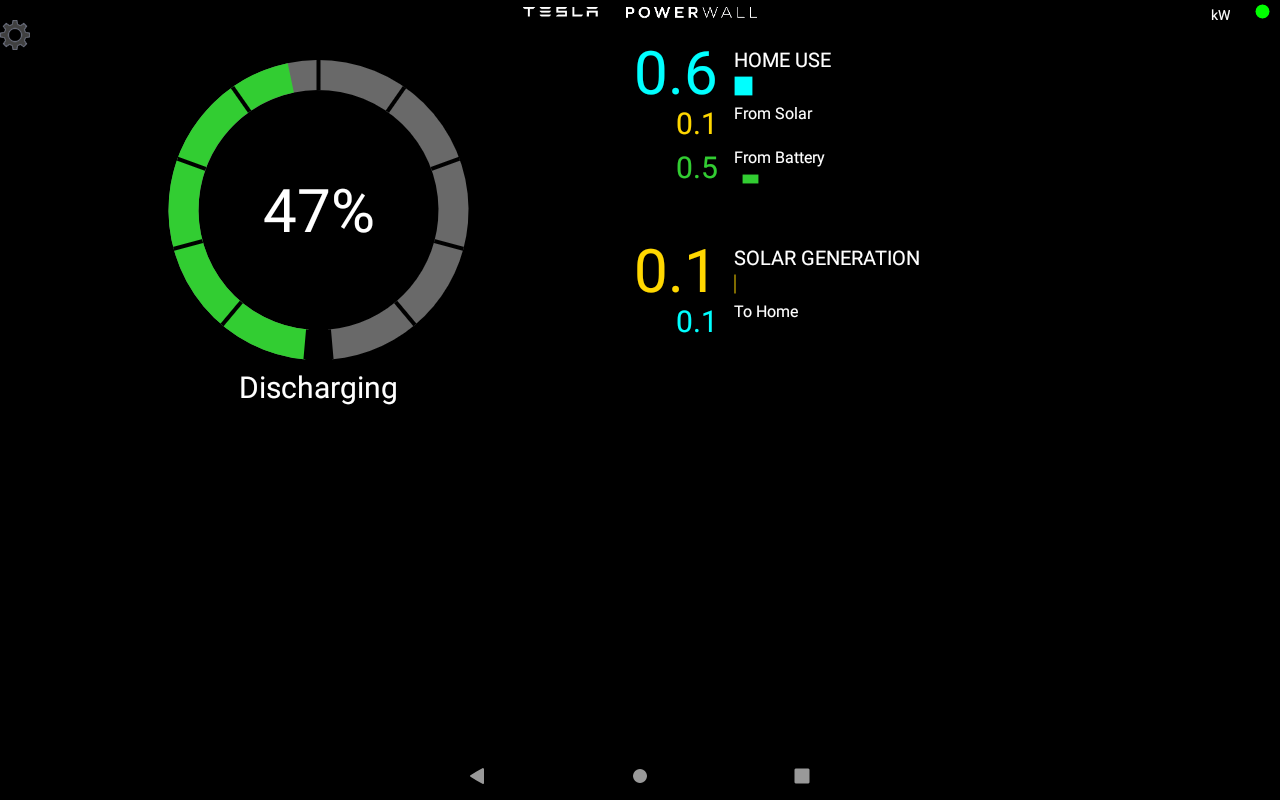
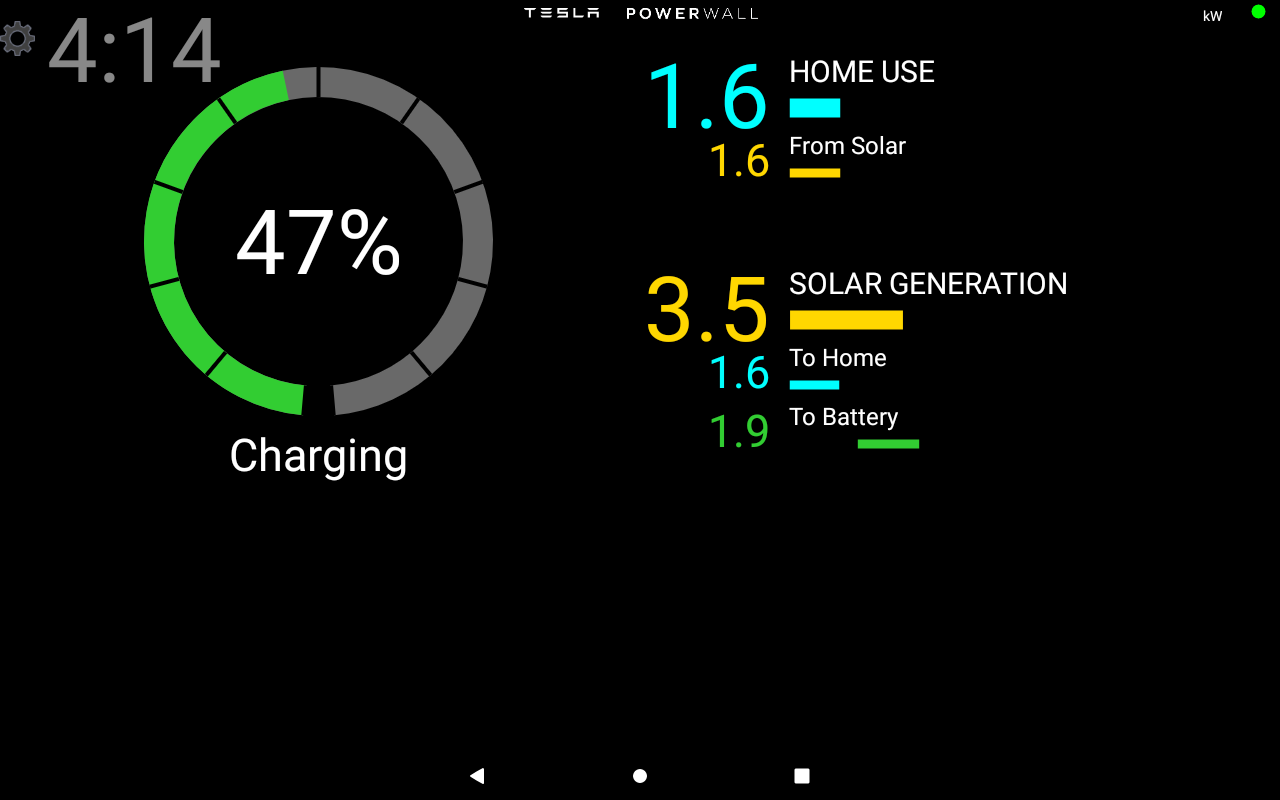
Font size control, v1.4 release

diff --git a/PowerwallCompanionX/PowerwallCompanionX/Views/MainPage.xaml b/PowerwallCompanionX/PowerwallCompanionX/Views/MainPage.xaml
@@ -41,7 +41,7 @@
                 <StackLayout Orientation="Vertical" Grid.Column="0">
                     <gauge:SfCircularGauge Margin="30,30,30,0">
                         <gauge:SfCircularGauge.Headers>
-                            <gauge:Header Text="{Binding BatteryPercent, Converter={ StaticResource BatteryPercentageConverter}}" ForegroundColor="White" TextSize="60" Position="0.5,0.5" />
+                            <gauge:Header Text="{Binding BatteryPercent, Converter={ StaticResource BatteryPercentageConverter}}" ForegroundColor="White" TextSize="{Binding LargeFontSize}" Position="0.5,0.5" />
                         </gauge:SfCircularGauge.Headers>
                         <gauge:SfCircularGauge.Scales>
                             <gauge:Scale  StartAngle="95" SweepAngle="350" ShowLabels="False" ShowRim="True" RadiusFactor="1" RimThickness="30" RimColor="{Binding GridActive, Converter={StaticResource GridActiveToBackgroundColorConverter}}">
@@ -60,7 +60,7 @@
 
                         </gauge:SfCircularGauge.Scales>
                     </gauge:SfCircularGauge>
-                    <Label Text="{Binding BatteryStatus}" TextColor="White" FontSize="30" HorizontalTextAlignment="Center" />
+                    <Label Text="{Binding BatteryStatus}" TextColor="White" FontSize="{Binding SmallFontSize}" HorizontalTextAlignment="Center" />
                 </StackLayout>
 
                 <!-- Column 1-->
@@ -100,25 +100,25 @@
                     </Grid.RowDefinitions>
 
                     <!-- Home Use -->
-                    <Label FontSize="20" Grid.Row="0" Grid.Column="1" TextColor="White" HorizontalTextAlignment="Left" Margin="0,15,0,0">HOME USE</Label>
-                    <Label Grid.Row="0" Grid.Column="0" Grid.RowSpan="2" TextColor="Cyan" VerticalTextAlignment="Center" HorizontalOptions="End" FontSize="60" Margin="0,0,10,-10" Text="{Binding HomeValue, Mode=OneWay, Converter={StaticResource KilowattConverter}}" ></Label>
+                    <Label FontSize="{Binding LargeCaptionFontSize}" Grid.Row="0" Grid.Column="1" TextColor="White" HorizontalTextAlignment="Left" Margin="0,15,0,0">HOME USE</Label>
+                    <Label Grid.Row="0" Grid.Column="0" Grid.RowSpan="2" TextColor="Cyan" VerticalTextAlignment="Center" HorizontalOptions="End" FontSize="{Binding LargeFontSize}" Margin="0,0,10,-10" Text="{Binding HomeValue, Mode=OneWay, Converter={StaticResource KilowattConverter}}" ></Label>
                     <StackLayout Margin="0" Padding="0" Grid.Row="1" Grid.Column="1" Orientation="Horizontal">
                         <Rectangle  Fill="Cyan"   WidthRequest="{Binding HomeValue, Mode=OneWay, Converter={StaticResource PositiveBarGraphConverter}}" HeightRequest="20"  />
                     </StackLayout>
-                    <Label FontSize="16"  Grid.Row="2" Grid.Column="1" TextColor="White" HorizontalTextAlignment="Left">From Solar</Label>
-                    <Label Grid.Row="2" Grid.Column="0" Grid.RowSpan="2" TextColor="Gold" HorizontalOptions="End" VerticalTextAlignment="Center" FontSize="30" Margin="0,0,10,0" Text="{Binding HomeFromSolar, Mode=OneWay, Converter={StaticResource KilowattConverter}}"></Label>
+                    <Label FontSize="{Binding SmallCaptionFontSize}"  Grid.Row="2" Grid.Column="1" TextColor="White" HorizontalTextAlignment="Left">From Solar</Label>
+                    <Label Grid.Row="2" Grid.Column="0" Grid.RowSpan="2" TextColor="Gold" HorizontalOptions="End" VerticalTextAlignment="Center" FontSize="{Binding SmallFontSize}" Margin="0,0,10,0" Text="{Binding HomeFromSolar, Mode=OneWay, Converter={StaticResource KilowattConverter}}"></Label>
                     <StackLayout Margin="0" Padding="0" Grid.Row="3" Grid.Column="1" Orientation="Horizontal" IsVisible="{Binding HomeFromSolar, Mode=OneWay, Converter={StaticResource PositiveToBooleanConverter}}">
                         <Rectangle Fill="Gold"  WidthRequest="{Binding HomeFromSolar, Mode=OneWay, Converter={StaticResource PositiveBarGraphConverter}}" HeightRequest="10" />
                     </StackLayout>
-                    <Label FontSize="16"  Grid.Row="4" Grid.Column="1" TextColor="White" HorizontalTextAlignment="Left">From Battery</Label>
-                    <Label Grid.Row="4" Grid.Column="0" Grid.RowSpan="2" TextColor="LimeGreen" HorizontalOptions="End" VerticalTextAlignment="Center" FontSize="30" Margin="0,0,10,0" Text="{Binding HomeFromBattery, Mode=OneWay, Converter={StaticResource KilowattConverter}}"></Label>
+                    <Label FontSize="{Binding SmallCaptionFontSize}"  Grid.Row="4" Grid.Column="1" TextColor="White" HorizontalTextAlignment="Left">From Battery</Label>
+                    <Label Grid.Row="4" Grid.Column="0" Grid.RowSpan="2" TextColor="LimeGreen" HorizontalOptions="End" VerticalTextAlignment="Center" FontSize="{Binding SmallFontSize}" Margin="0,0,10,0" Text="{Binding HomeFromBattery, Mode=OneWay, Converter={StaticResource KilowattConverter}}"></Label>
                     <StackLayout Margin="0" Padding="0" Orientation="Horizontal" Grid.Row="5" Grid.Column="1" IsVisible="{Binding HomeFromBattery, Mode=OneWay, Converter={StaticResource PositiveToBooleanConverter}}">
                         <Rectangle Fill="Transparent"  WidthRequest="{Binding HomeFromSolar, Mode=OneWay, Converter={StaticResource PositiveBarGraphConverter}}" HeightRequest="10" />
                         <Rectangle Fill="LimeGreen"  WidthRequest="{Binding HomeFromBattery, Mode=OneWay, Converter={StaticResource PositiveBarGraphConverter}}" HeightRequest="10" />
                     </StackLayout>
 
-                    <Label FontSize="16"  Grid.Row="6" Grid.Column="1" TextColor="White" HorizontalTextAlignment="Left">From Grid</Label>
-                    <Label Grid.Row="6" Grid.Column="0" Grid.RowSpan="2" TextColor="LightGray" HorizontalOptions="End"  VerticalTextAlignment="Center" FontSize="30" Margin="0,0,10,0" Text="{Binding HomeFromGrid, Mode=OneWay, Converter={StaticResource KilowattConverter}}"></Label>
+                    <Label FontSize="{Binding SmallCaptionFontSize}"  Grid.Row="6" Grid.Column="1" TextColor="White" HorizontalTextAlignment="Left">From Grid</Label>
+                    <Label Grid.Row="6" Grid.Column="0" Grid.RowSpan="2" TextColor="LightGray" HorizontalOptions="End"  VerticalTextAlignment="Center" FontSize="{Binding SmallFontSize}" Margin="0,0,10,0" Text="{Binding HomeFromGrid, Mode=OneWay, Converter={StaticResource KilowattConverter}}"></Label>
                     <StackLayout Margin="0" Padding="0" Orientation="Horizontal" Grid.Row="7" Grid.Column="1" IsVisible="{Binding HomeFromGrid, Mode=OneWay, Converter={StaticResource PositiveToBooleanConverter}}">
                         <Rectangle Fill="Transparent"  WidthRequest="{Binding HomeFromSolar, Mode=OneWay, Converter={StaticResource PositiveBarGraphConverter}}" HeightRequest="10" />
                         <Rectangle Fill="Transparent"  WidthRequest="{Binding HomeFromBattery, Mode=OneWay, Converter={StaticResource PositiveBarGraphConverter}}" HeightRequest="10" />
@@ -126,25 +126,25 @@
                     </StackLayout>
 
                     <!-- Solar Generation -->
-                    <Label FontSize="20"  Grid.Row="9" Grid.Column="1" HorizontalTextAlignment="Left" LineBreakMode="NoWrap"  TextColor="White"  Margin="0,15,0,0">SOLAR GENERATION</Label>
-                    <Label Grid.Row="9" Grid.Column="0" Grid.RowSpan="2" TextColor="Gold" HorizontalOptions="End" VerticalTextAlignment="Center" FontSize="60"  Margin="-0,0,10,-10" Text="{Binding SolarValue, Mode=OneWay, Converter={StaticResource KilowattConverter}}"></Label>
+                    <Label FontSize="{Binding LargeCaptionFontSize}"  Grid.Row="9" Grid.Column="1" HorizontalTextAlignment="Left" LineBreakMode="NoWrap"  TextColor="White"  Margin="0,15,0,0">SOLAR GENERATION</Label>
+                    <Label Grid.Row="9" Grid.Column="0" Grid.RowSpan="2" TextColor="Gold" HorizontalOptions="End" VerticalTextAlignment="Center" FontSize="{Binding LargeFontSize}"  Margin="-0,0,10,-10" Text="{Binding SolarValue, Mode=OneWay, Converter={StaticResource KilowattConverter}}"></Label>
                     <StackLayout Margin="0" Padding="0" Orientation="Horizontal" Grid.Row="10" Grid.Column="1">
                         <Rectangle  Fill="Gold" WidthRequest="{Binding SolarValue, Mode=OneWay, Converter={StaticResource PositiveBarGraphConverter}}" HeightRequest="20" />
                     </StackLayout>
-                    <Label FontSize="16"  Grid.Row="11" Grid.Column="1" TextColor="White" HorizontalTextAlignment="Left">To Home</Label>
-                    <Label Grid.Row="11" Grid.Column="0" Grid.RowSpan="2" TextColor="Cyan"  HorizontalOptions="End" VerticalTextAlignment="Center" FontSize="30"  Margin="0,0,10,0" Text="{Binding SolarToHome, Mode=OneWay, Converter={StaticResource KilowattConverter}}"></Label>
+                    <Label FontSize="{Binding SmallCaptionFontSize}"  Grid.Row="11" Grid.Column="1" TextColor="White" HorizontalTextAlignment="Left">To Home</Label>
+                    <Label Grid.Row="11" Grid.Column="0" Grid.RowSpan="2" TextColor="Cyan"  HorizontalOptions="End" VerticalTextAlignment="Center" FontSize="{Binding SmallFontSize}"  Margin="0,0,10,0" Text="{Binding SolarToHome, Mode=OneWay, Converter={StaticResource KilowattConverter}}"></Label>
                     <StackLayout Margin="0" Padding="0" Orientation="Horizontal" Grid.Row="12" Grid.Column="1" IsVisible="{Binding SolarToHome, Mode=OneWay, Converter={StaticResource PositiveToBooleanConverter}}">
                         <Rectangle  Fill="Cyan" WidthRequest="{Binding SolarToHome, Mode=OneWay, Converter={StaticResource PositiveBarGraphConverter}}" HeightRequest="10" />
                     </StackLayout>
-                    <Label FontSize="16"  Grid.Row="13" Grid.Column="1" TextColor="White" HorizontalTextAlignment="Left">To Battery</Label>
-                    <Label Grid.Row="13" Grid.Column="0" Grid.RowSpan="2" TextColor="LimeGreen" HorizontalOptions="End"  VerticalTextAlignment="Center" FontSize="30"  Margin="0,0,10,0" Text="{Binding SolarToBattery, Mode=OneWay, Converter={StaticResource KilowattConverter}}"></Label>
+                    <Label FontSize="{Binding SmallCaptionFontSize}"  Grid.Row="13" Grid.Column="1" TextColor="White" HorizontalTextAlignment="Left">To Battery</Label>
+                    <Label Grid.Row="13" Grid.Column="0" Grid.RowSpan="2" TextColor="LimeGreen" HorizontalOptions="End"  VerticalTextAlignment="Center" FontSize="{Binding SmallFontSize}"  Margin="0,0,10,0" Text="{Binding SolarToBattery, Mode=OneWay, Converter={StaticResource KilowattConverter}}"></Label>
                     <StackLayout Margin="0" Padding="0" Orientation="Horizontal" Grid.Row="14" Grid.Column="1" IsVisible="{Binding SolarToBattery, Mode=OneWay, Converter={StaticResource PositiveToBooleanConverter}}">
                         <Rectangle Fill="Transparent" WidthRequest="{Binding SolarToHome, Mode=OneWay, Converter={StaticResource PositiveBarGraphConverter}}" HeightRequest="10" />
                         <Rectangle Fill="LimeGreen" WidthRequest="{Binding SolarToBattery, Mode=OneWay, Converter={StaticResource PositiveBarGraphConverter}}" HeightRequest="10" />
                     </StackLayout>
 
                     <Label FontSize="16"  Grid.Row="15" Grid.Column="1" TextColor="White" HorizontalTextAlignment="Left">To Grid</Label>
-                    <Label Grid.Row="15" Grid.Column="0" Grid.RowSpan="2" TextColor="LightGray" HorizontalOptions="End" VerticalTextAlignment="Center" FontSize="30"  Margin="0,0,10,0" Text="{Binding SolarToGrid, Mode=OneWay, Converter={StaticResource KilowattConverter}}"></Label>
+                    <Label Grid.Row="15" Grid.Column="0" Grid.RowSpan="2" TextColor="LightGray" HorizontalOptions="End" VerticalTextAlignment="Center" FontSize="{Binding SmallFontSize}"  Margin="0,0,10,0" Text="{Binding SolarToGrid, Mode=OneWay, Converter={StaticResource KilowattConverter}}"></Label>
                     <StackLayout Margin="0" Padding="0" Orientation="Horizontal" Grid.Row="16" Grid.Column="1" IsVisible="{Binding SolarToGrid, Mode=OneWay, Converter={StaticResource PositiveToBooleanConverter}}">
                         <Rectangle Fill="Transparent" WidthRequest="{Binding SolarToHome, Mode=OneWay, Converter={StaticResource PositiveBarGraphConverter}}" HeightRequest="10" />
                         <Rectangle Fill="Transparent" WidthRequest="{Binding SolarToBattery, Mode=OneWay, Converter={StaticResource PositiveBarGraphConverter}}" HeightRequest="10" />
@@ -153,7 +153,7 @@
 
                 </Grid>
 
-                <Label x:Name="timeTextBlock" HorizontalTextAlignment="Left" VerticalTextAlignment="Top" FontSize="60" TextColor="#888888" Margin="40,-40,0,0"
+                <Label x:Name="timeTextBlock" HorizontalTextAlignment="Left" VerticalTextAlignment="Top" FontSize="{Binding LargeFontSize}" TextColor="#888888" Margin="40,-40,0,0"
                                IsVisible="{Binding ShowClock, Mode=OneWay}"
                                Text="{Binding Time, Mode=OneWay}" />
                 <ImageButton Source="Settings.png"

diff --git a/PowerwallCompanionX/PowerwallCompanionX/Views/SettingsPage.xaml b/PowerwallCompanionX/PowerwallCompanionX/Views/SettingsPage.xaml
@@ -28,6 +28,10 @@
             <Entry WidthRequest="100" x:Name="barScaleEntry" Keyboard="Numeric" VerticalOptions="Center" Text="{Binding GraphScale}"/>
             <Label Text="kW / cm" VerticalOptions="Center"/>
         </StackLayout>
+        <StackLayout Orientation="Horizontal" >
+            <Label Text="Font Scale" VerticalOptions="Center"/>
+            <Slider Minimum="0.5" Maximum="1.5" Value="{Binding FontScale}" WidthRequest="200" />
+        </StackLayout>
     </StackLayout>
 
 </ContentPage>

diff --git a/PowerwallCompanionX/PowerwallCompanionX/Settings.cs b/PowerwallCompanionX/PowerwallCompanionX/Settings.cs
@@ -16,7 +16,7 @@ namespace PowerwallCompanionX
             SiteId,
             ShowClock,
             GraphScale,
-            FontSize
+            FontScale
         }
 
         public static string AccessToken
@@ -52,6 +52,12 @@ namespace PowerwallCompanionX
         {
             get => GetProperty<decimal>(nameof(Properties.GraphScale), 1.0M);
             set => Application.Current.Properties[nameof(Properties.GraphScale)] = value;
+        }
+
+        public static double FontScale
+        {
+            get => GetProperty<double>(nameof(Properties.FontScale), 1);
+            set => Application.Current.Properties[nameof(Properties.FontScale)] = value;
         }
 
         private static T GetProperty<T>(string keyName, T defaultValue)

diff --git a/PowerwallCompanionX/PowerwallCompanionX/ViewModels/MainViewModel.cs b/PowerwallCompanionX/PowerwallCompanionX/ViewModels/MainViewModel.cs
@@ -191,6 +191,26 @@ namespace PowerwallCompanionX.ViewModels
             }
         }
 
+        public double LargeFontSize
+        {
+            get { return Settings.FontScale * 60; }
+        }
+
+        public double SmallFontSize
+        {
+            get { return Settings.FontScale * 30; }
+        }
+
+        public double LargeCaptionFontSize
+        {
+            get { return Settings.FontScale * 20; }
+        }
+
+        public double SmallCaptionFontSize
+        {
+            get { return Settings.FontScale * 16; }
+        }
+
         public Command StatusCommand { get; }
         public Command SettingsCommand { get; }
 

diff --git a/PowerwallCompanionX/PowerwallCompanionX/ViewModels/SettingsViewModel.cs b/PowerwallCompanionX/PowerwallCompanionX/ViewModels/SettingsViewModel.cs
@@ -35,6 +35,12 @@ namespace PowerwallCompanionX.ViewModels
             set => Settings.GraphScale = value;
         }
 
+        public double FontScale
+        {
+            get => Settings.FontScale;
+            set => Settings.FontScale = value;
+        }
+
         private async void OnBackTapped(object obj)
         {
             await Application.Current.SavePropertiesAsync();
